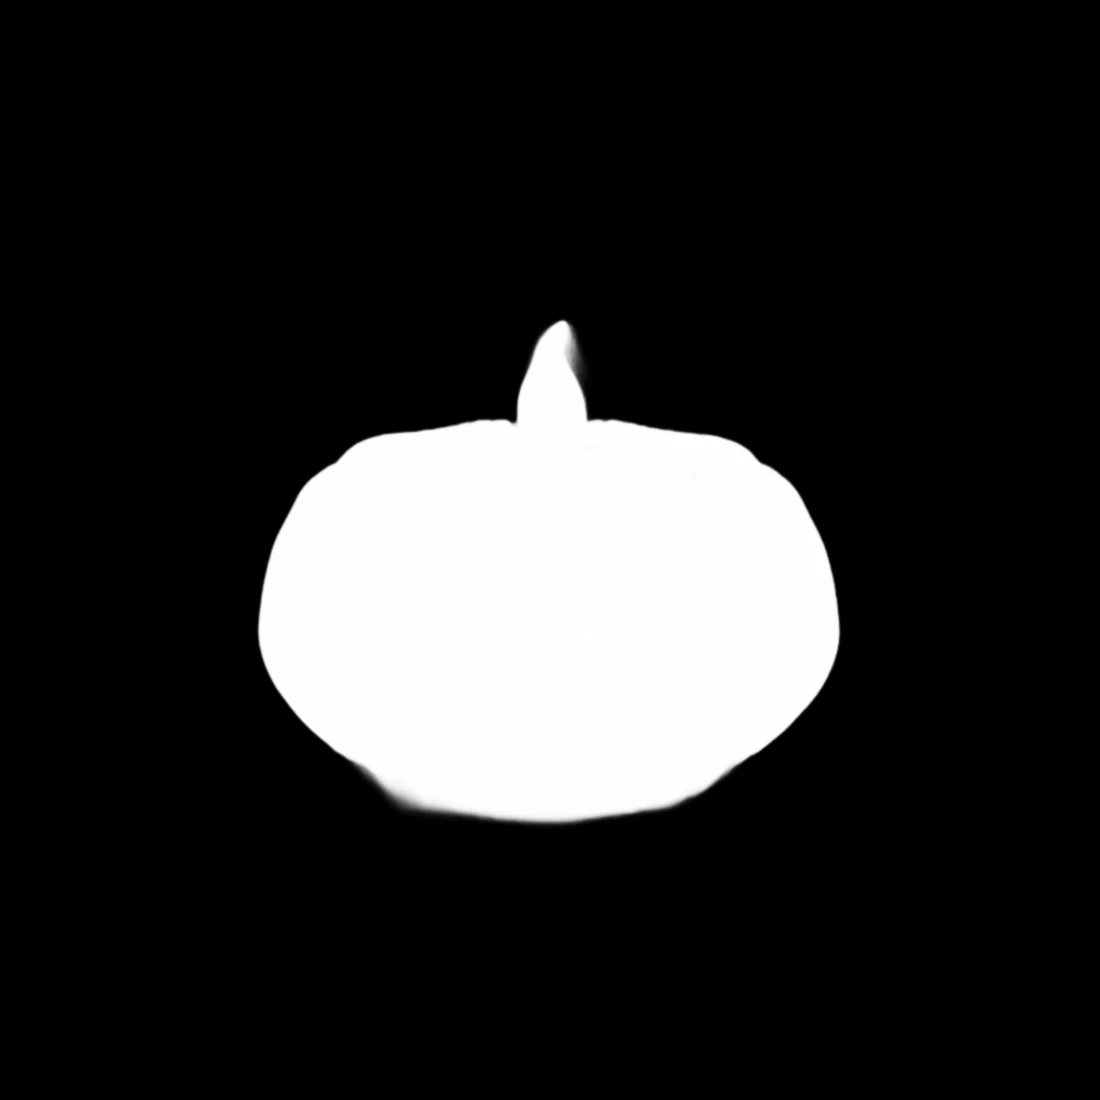
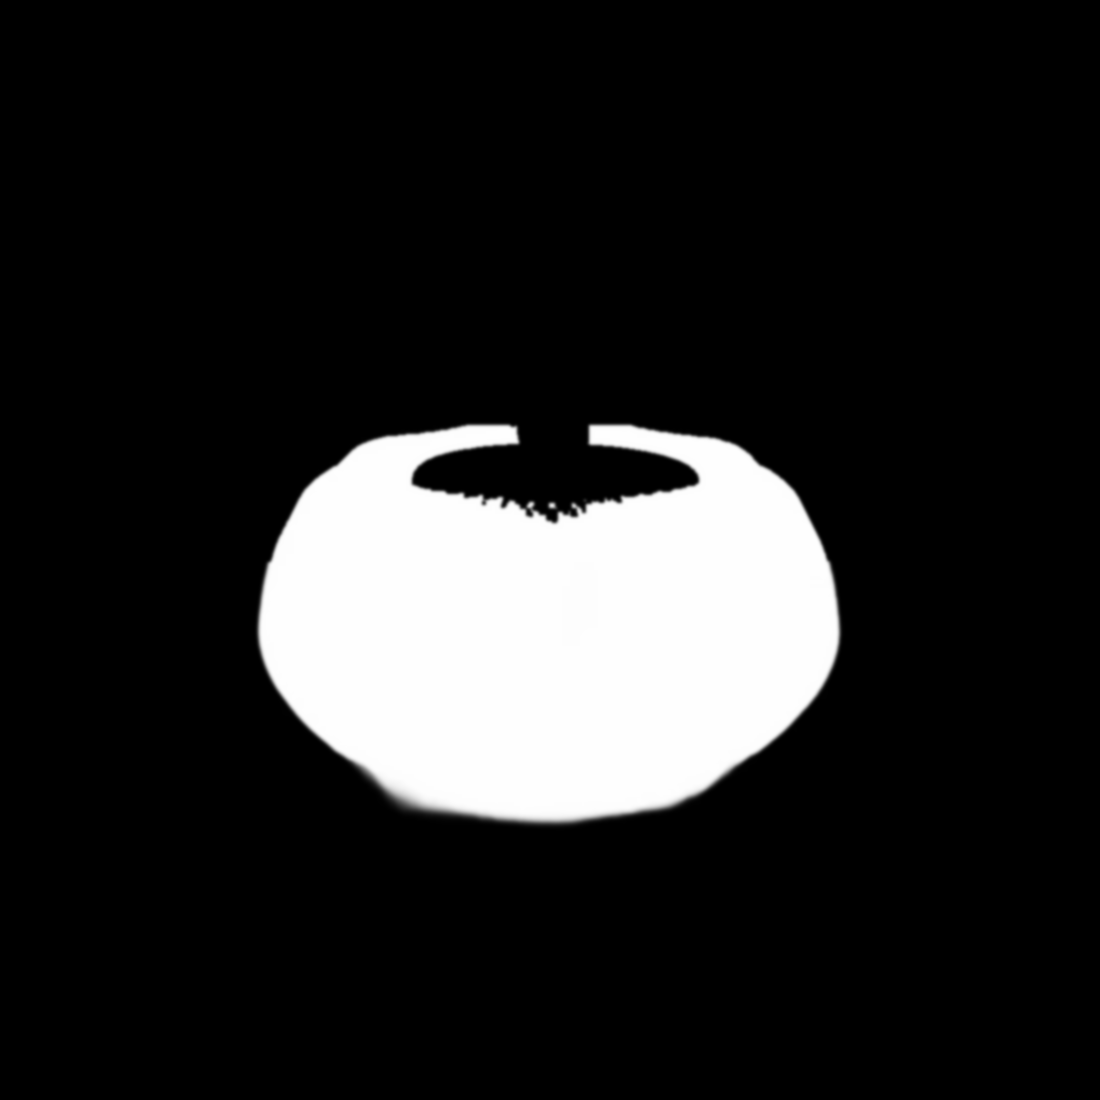
Bildqualität: Teelicht-Flamme ausgenommen, Untersetzer entrauscht, Halloween-Motivfarben bleiben, Aufdruck sofort sichtbar, Becher-Weiß nicht überstrahlt
Claude-Session: https://claude.ai/code/session_01NrH9dGZGs97rj3EW7q6tPZ

diff --git a/components/shop/FotoGalerie.tsx b/components/shop/FotoGalerie.tsx
@@ -1,7 +1,7 @@
 "use client";
 import { useEffect, useRef, useState } from "react";
 import type { Form } from "@/lib/shop/produkte";
-import { MIT_AUFDRUCK, ORIGINALFARBE, ORIGINAL_ABSTAND, darfUmfaerben, TAG_FOTO, UMFAERBEN, type Foto } from "@/lib/shop/fotos";
+import { MIT_AUFDRUCK, ORIGINALFARBE, ORIGINAL_ABSTAND, ORIGINAL_LINIE, darfUmfaerben, TAG_FOTO, UMFAERBEN, type Foto } from "@/lib/shop/fotos";
 import { umfaerben, zielFarben, type UmfaerbModus } from "@/lib/shop/umfaerben";
 import { vorbereiteFoto, farbAbstand } from "./fotoFaerben";
 import { LiveProductImage, useVorschauWerte } from "./Vorschau";
@@ -17,8 +17,9 @@ const vorbereiten = (src: string, modus: UmfaerbModus) => vorbereiteFoto(src, mo
 // Galerie-Hauptbild: echte Fotos als Blättergalerie, dazu die Live-Vorschau ("Deine Wahl").
 // Ändert der Kunde die Farbe, wird das Foto in dieser Farbe gezeigt (Licht und Struktur bleiben).
 // Ändert er den Wunschtext, springt die Anzeige auf die Live-Vorschau (Text lässt sich nicht ins Foto setzen).
-export default function FotoGalerie({ slug, form, grundfarbe, fotos, name }: { slug: string; form: Form; grundfarbe: string; fotos: Foto[]; name: string }) {
-  const w = useVorschauWerte();
+export default function FotoGalerie({ slug, form, grundfarbe, fotos, name, vorText }: { /** Standardtext: erscheint sofort als Aufdruck, bevor der Kaufbereich geladen ist (Handy, langsames Netz) */ vorText?: string; slug: string; form: Form; grundfarbe: string; fotos: Foto[]; name: string }) {
+  const wRoh = useVorschauWerte();
+  const w = wRoh.text === undefined && vorText ? { ...wRoh, text: vorText, family: wRoh.family ?? "var(--font-sf-montserrat), sans-serif" } : wRoh;
   const [idx, setIdx] = useState(0); // -1 = Live-Vorschau
   // Namensschild: Foto 1 = Blanko-Schild (ganzes Objekt in der Schildfarbe, Text kommt als Aufdruck), die übrigen = Beispielfotos mit Schrift
   const ohneUmfaerben = !darfUmfaerben(slug, idx); // z. B. Kork-Rückseite: Foto bleibt, wie es ist
@@ -57,7 +58,7 @@ export default function FotoGalerie({ slug, form, grundfarbe, fotos, name }: { s
   const mitAufdruck = liveAufFoto && idx === 0;
   // Das Foto wird von Anfang an in der gewählten Farbe gezeigt (auch in der Vorauswahl), sobald der Kaufbereich eine Farbe gemeldet hat.
   const orig = ORIGINALFARBE[slug];
-  const istOriginalfarbe = !!orig && idx === 0 && !!w.farbe && farbAbstand(w.farbe, orig) < ORIGINAL_ABSTAND;
+  const istOriginalfarbe = !!orig && idx === 0 && !!w.farbe && farbAbstand(w.farbe, orig) < ORIGINAL_ABSTAND && (!ORIGINAL_LINIE[slug] || (!!w.linienfarbe && farbAbstand(w.linienfarbe, ORIGINAL_LINIE[slug]) < ORIGINAL_ABSTAND));
   const aktiv = !!modus && !istOriginalfarbe && (mitAufdruck || farbKey.replace(/\|/g, "") !== "");
 
   const foto = idx >= 0 ? fotos[idx] : null;

diff --git a/app/3d-druck/[slug]/page.tsx b/app/3d-druck/[slug]/page.tsx
@@ -44,7 +44,7 @@ export default async function Produktseite({ params }: Props) {
         <Link className="shop-crumb" href={halloween ? "/3d-druck?kategorie=halloween#stuecke" : "/3d-druck#stuecke"}>← Alle Stücke</Link>
         <VorschauProvider>
         <div className="shop-product">
-          <Galerie bild={fotosFuer(p.slug).length ? <FotoGalerie slug={p.slug} form={p.form} grundfarbe={p.grundfarbe} fotos={fotosFuer(p.slug)} name={p.name} /> : <><LiveProductImage form={p.form} grundfarbe={p.grundfarbe} /><p className="shop-fotohinweis"><strong>Wichtig:</strong> {TEXTE.bildHinweis}</p></>} preis={preis} chips={[p.material, ...(p.masse ? [`ca. ${p.masse} mm`] : [])]} />
+          <Galerie bild={fotosFuer(p.slug).length ? <FotoGalerie vorText={p.personalisierung?.standardText} slug={p.slug} form={p.form} grundfarbe={p.grundfarbe} fotos={fotosFuer(p.slug)} name={p.name} /> : <><LiveProductImage form={p.form} grundfarbe={p.grundfarbe} /><p className="shop-fotohinweis"><strong>Wichtig:</strong> {TEXTE.bildHinweis}</p></>} preis={preis} chips={[p.material, ...(p.masse ? [`ca. ${p.masse} mm`] : [])]} />
           <div className="shop-info">
             <p className="shop-overline">{halloween ? "Halloween-Kollektion" : "3D-Druck"}</p>
             <h1 style={{ fontSize: "clamp(1.9rem, 8vw, 2.8rem)", overflowWrap: "anywhere" }}>{p.name}</h1>

diff --git a/lib/shop/umfaerben.ts b/lib/shop/umfaerben.ts
@@ -41,7 +41,11 @@ export function zielFarben(modus: UmfaerbModus, z: UmfaerbZiel): ([number, numbe
 function klassen(modus: UmfaerbModus, r: number, g: number, b: number, l: number, out: number[], lin = 0) {
   switch (modus) {
     case "farbe": case "becher": out[0] = 1; return;
-    case "grund": out[0] = klemme((0.3 - l) / 0.12); return;
+    case "grund": {
+      // nur der dunkle, unbunte Grund: dunkle Motivfarben (Orange im Schatten) und Weiß bleiben unberührt
+      const mx = Math.max(r, g, b), sat = ((mx - Math.min(r, g, b)) / (mx + 0.02)) * klemme((l - 0.08) / 0.1); // sehr dunkle Pixel: Farbrauschen ignorieren
+      out[0] = klemme((0.3 - l) / 0.12) * (1 - klemme((sat - 0.22) / 0.18)); return;
+    }
     case "untersetzer": out[1] = lin; out[0] = 1 - lin; return;
     case "schild": {
       const bl = klemme((b - r - 0.1) / 0.15);
@@ -68,7 +72,7 @@ export interface Vorbereitet {
 function kurve(modus: UmfaerbModus, c: number, v: number): number {
   if ((modus === "kombi" || modus === "untersetzer") && c >= 1) return 0.78 + 0.22 * v;
   if (modus === "untersetzer" || modus === "grund") return 0.6 + 0.3 * v;
-  return 0.18 + 0.76 * Math.pow(v, 0.7);
+  return 0.16 + 0.72 * Math.pow(v, 0.7); // max. 0,88: Weiß wird nicht überstrahlt
 }
 
 /** Mittelwert 5 x 5 (getrennt, Rand wird geklemmt). */

diff --git a/lib/shop/fotos.ts b/lib/shop/fotos.ts
@@ -116,11 +116,13 @@ export const OHNE_UMFAERBEN: Record<string, number[]> = {
 /** Foto 1 zeigt diese echte Farbe: Ist sie gewählt (Abstand klein), erscheint das unveränderte Foto statt des umgefärbten Canvas. */
 export const ORIGINALFARBE: Record<string, string> = {
   "stiftebecher-tasse": "#1c1c1c", "namensschild": "#1c1c1c", "kuerbis-teelichthalter": "#1c1c1c",
-  "halloween-untersetzer-set": "#1c1c1c", "halloween-untersetzer-einzeln": "#1c1c1c",
+  "spruch-untersetzer": "#1c1c1c", "halloween-untersetzer-set": "#1c1c1c", "halloween-untersetzer-einzeln": "#1c1c1c",
   "geister-set": "#f4f1ea", "geister-set-klein": "#f4f1ea", "kuerbis-klein-set": "#ff8a1f",
 }
 /** Abstand (RGB), bis zu dem die gewählte Farbe als "Farbe des Fotos" gilt: dann Originalfoto statt Umfärbung. */
 export const ORIGINAL_ABSTAND = 55;
+/** Zusätzlich nötige Linienfarbe für das Originalfoto (Individueller Untersetzer: Schwarz + weiße Linien = Foto). */
+export const ORIGINAL_LINIE: Record<string, string> = { "spruch-untersetzer": "#f4f1ea" };
 
 /** Welche Fotos beim Farbwechsel umgefärbt werden dürfen: nur Foto 1 (Live-Vorschau); alle weiteren sind Alex' Originale ("Foto: Beispielstück").
  *  Ausnahme: Einzel-Wochentags-Untersetzer, dort zeigt jedes der 5 Tagesfotos die gewählte Farbkombination. */

diff --git a/components/shop/FotoMiniatur.tsx b/components/shop/FotoMiniatur.tsx
@@ -1,6 +1,6 @@
 "use client";
 import { useEffect, useRef, useState } from "react";
-import { MIT_AUFDRUCK, ORIGINALFARBE, ORIGINAL_ABSTAND, darfUmfaerben, UMFAERBEN } from "@/lib/shop/fotos";
+import { MIT_AUFDRUCK, ORIGINALFARBE, ORIGINAL_ABSTAND, ORIGINAL_LINIE, darfUmfaerben, UMFAERBEN } from "@/lib/shop/fotos";
 import { umfaerben, zielFarben, type UmfaerbModus } from "@/lib/shop/umfaerben";
 import { farbAbstand, vorbereiteFoto } from "./fotoFaerben";
 import type { VorschauWerte } from "./Vorschau";
@@ -22,7 +22,7 @@ export default function FotoMiniatur({ slug, src, alt, w, fotoNr = 0 }: { slug: 
   const canvas = useRef<HTMLCanvasElement>(null);
   const modus = miniaturModus(slug, fotoNr);
   const orig = ORIGINALFARBE[slug];
-  const original = !!orig && !!w.farbe && farbAbstand(w.farbe, orig) < ORIGINAL_ABSTAND;
+  const original = !!orig && !!w.farbe && farbAbstand(w.farbe, orig) < ORIGINAL_ABSTAND && (!ORIGINAL_LINIE[slug] || (!!w.linienfarbe && farbAbstand(w.linienfarbe, ORIGINAL_LINIE[slug]) < ORIGINAL_ABSTAND));
   const aktiv = !!modus && !original && (!!w.farbe || !!w.farben);
   const [fertig, setFertig] = useState<string | null>(null);
   const schluessel = `${w.farbe}|${w.textfarbe}|${w.linienfarbe}|${(w.farben ?? []).join()}`;
